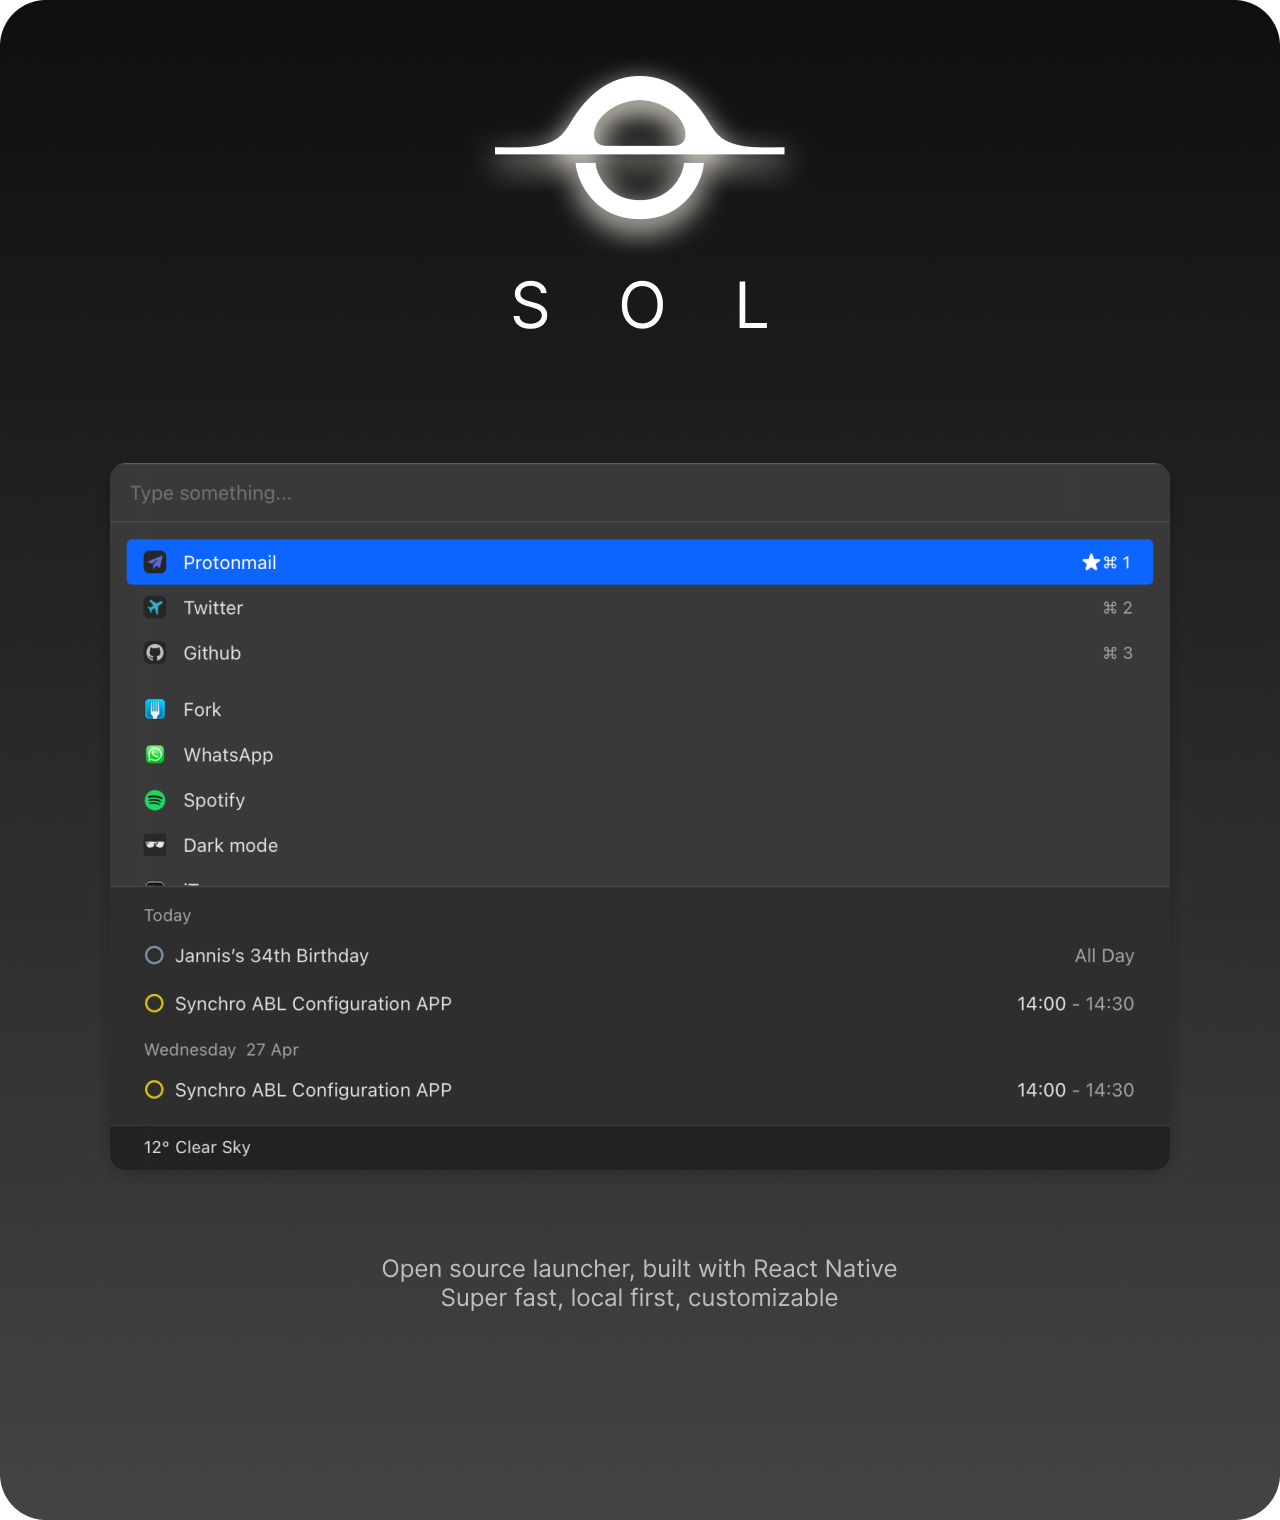
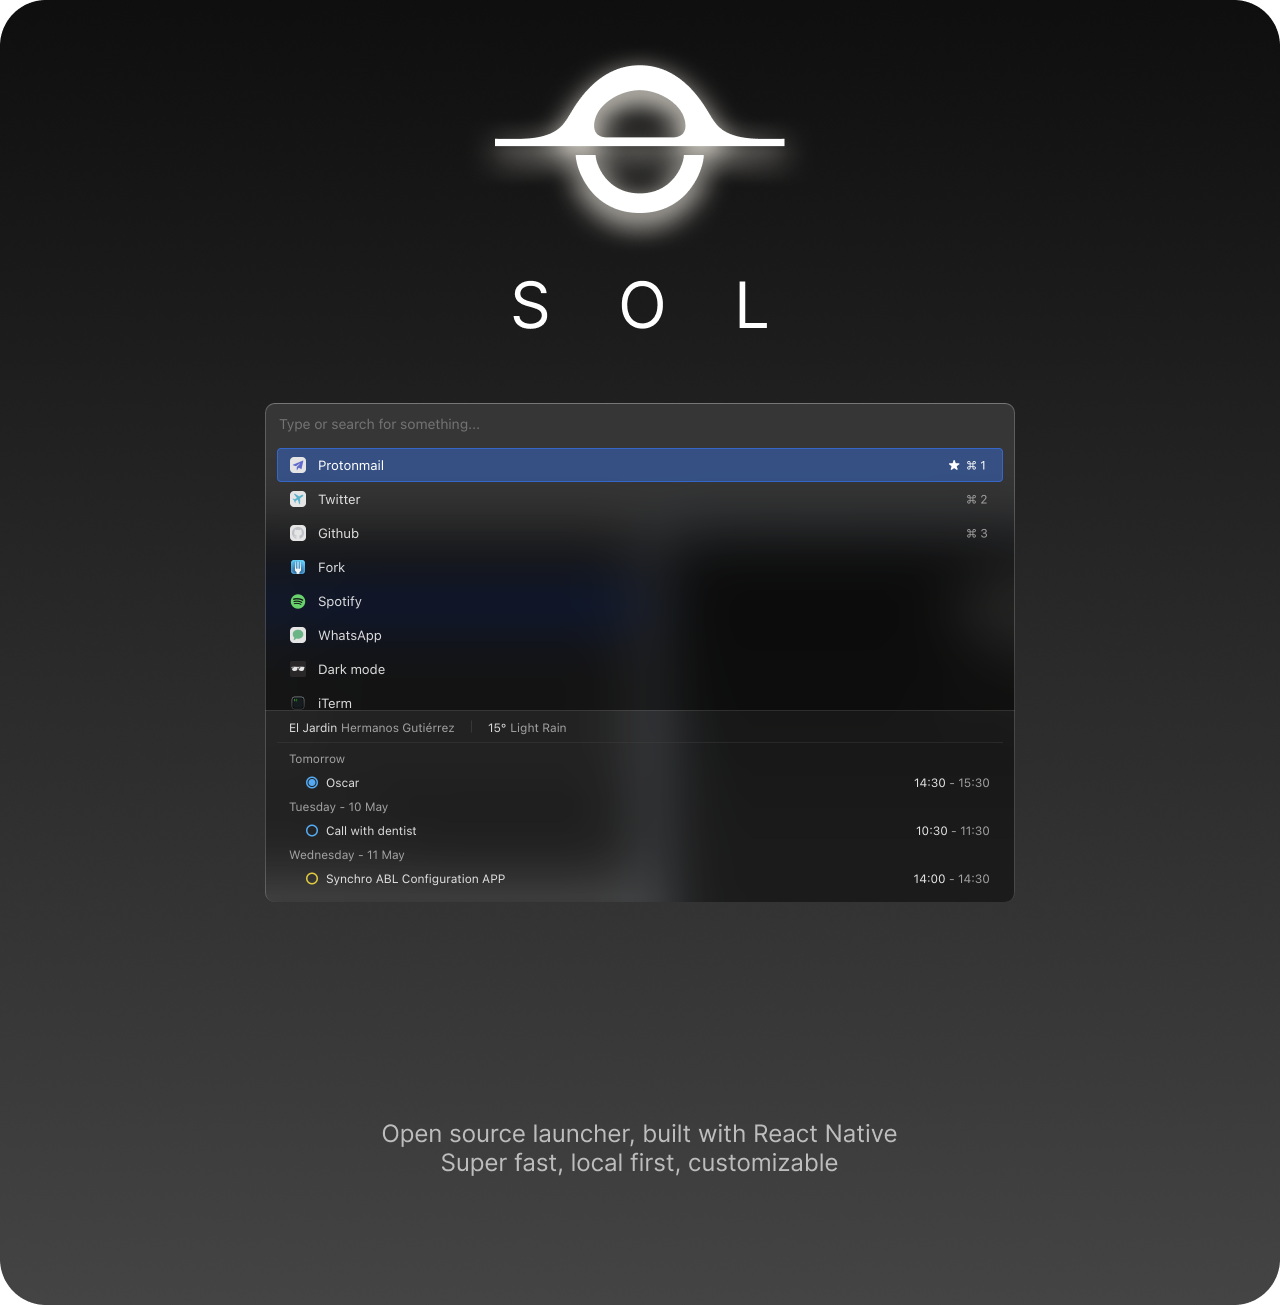
Update readme

diff --git a/README.md b/README.md
@@ -1,4 +1,4 @@
-<img src="https://raw.githubusercontent.com/ospfranco/sol/main/header.png" align="center"/>
+<img src="https://raw.githubusercontent.com/ospfranco/sol/main/header2.png" align="center"/>
 
 <br/>
 <div align="center">
